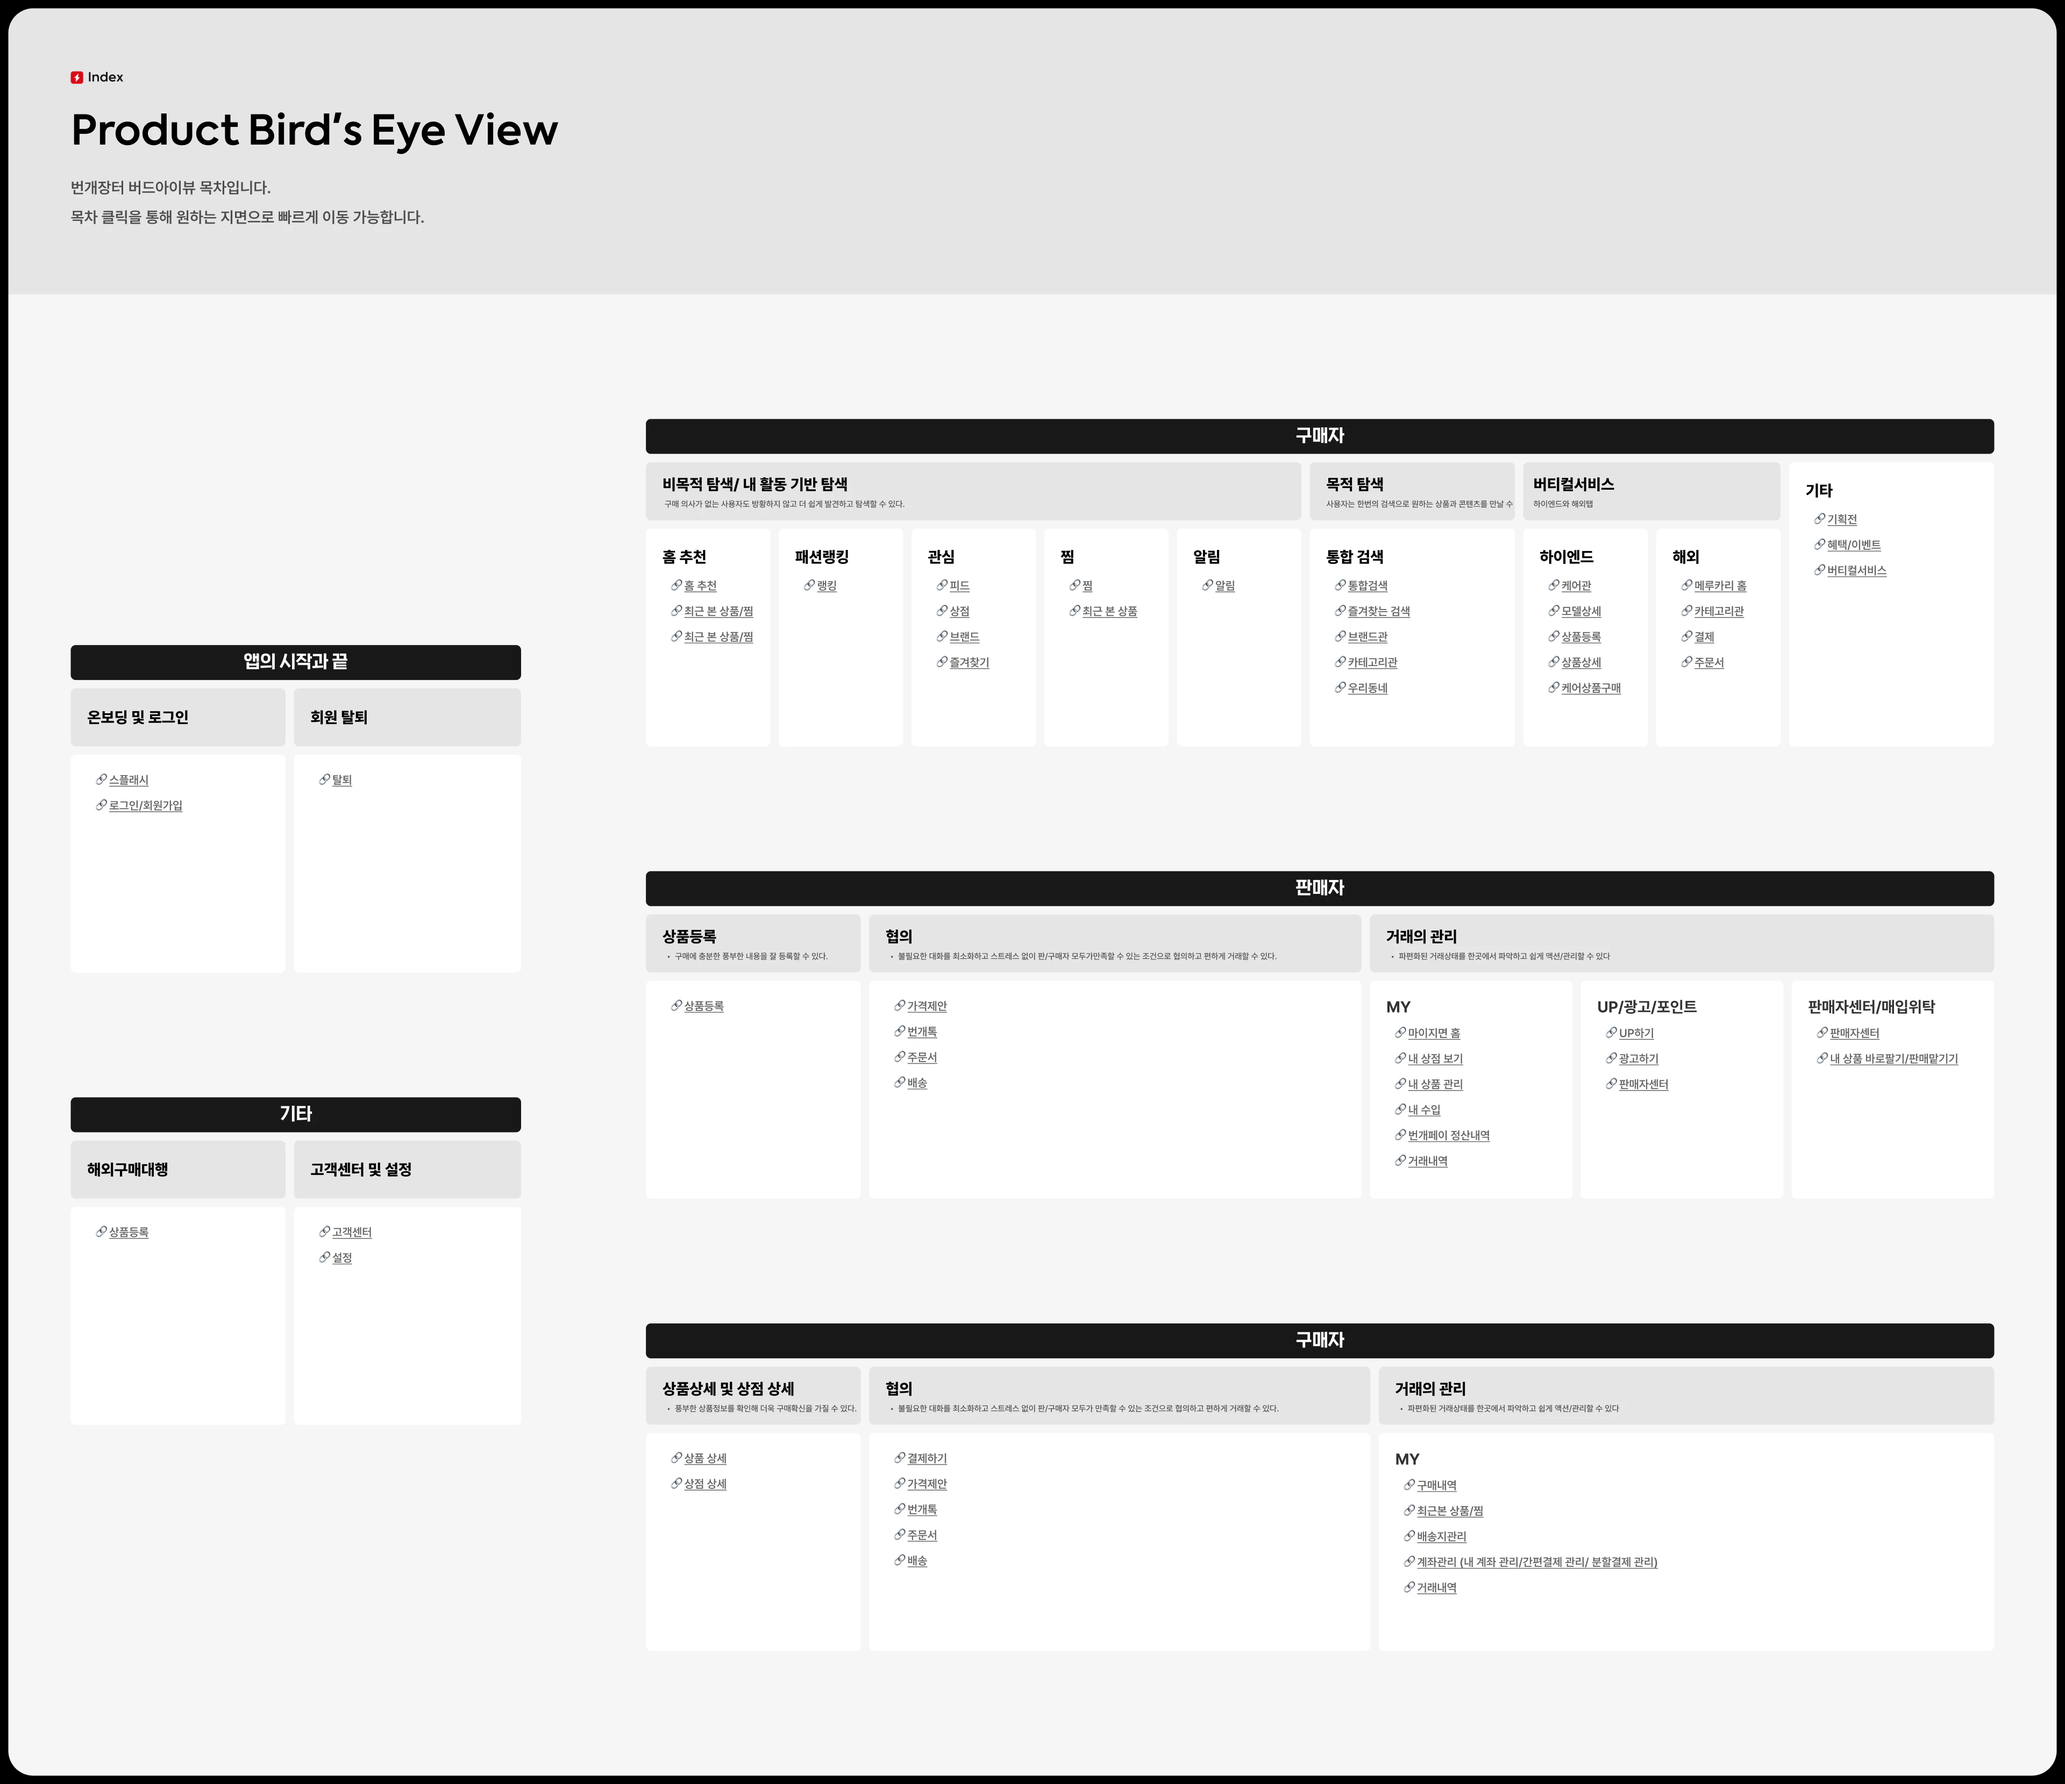
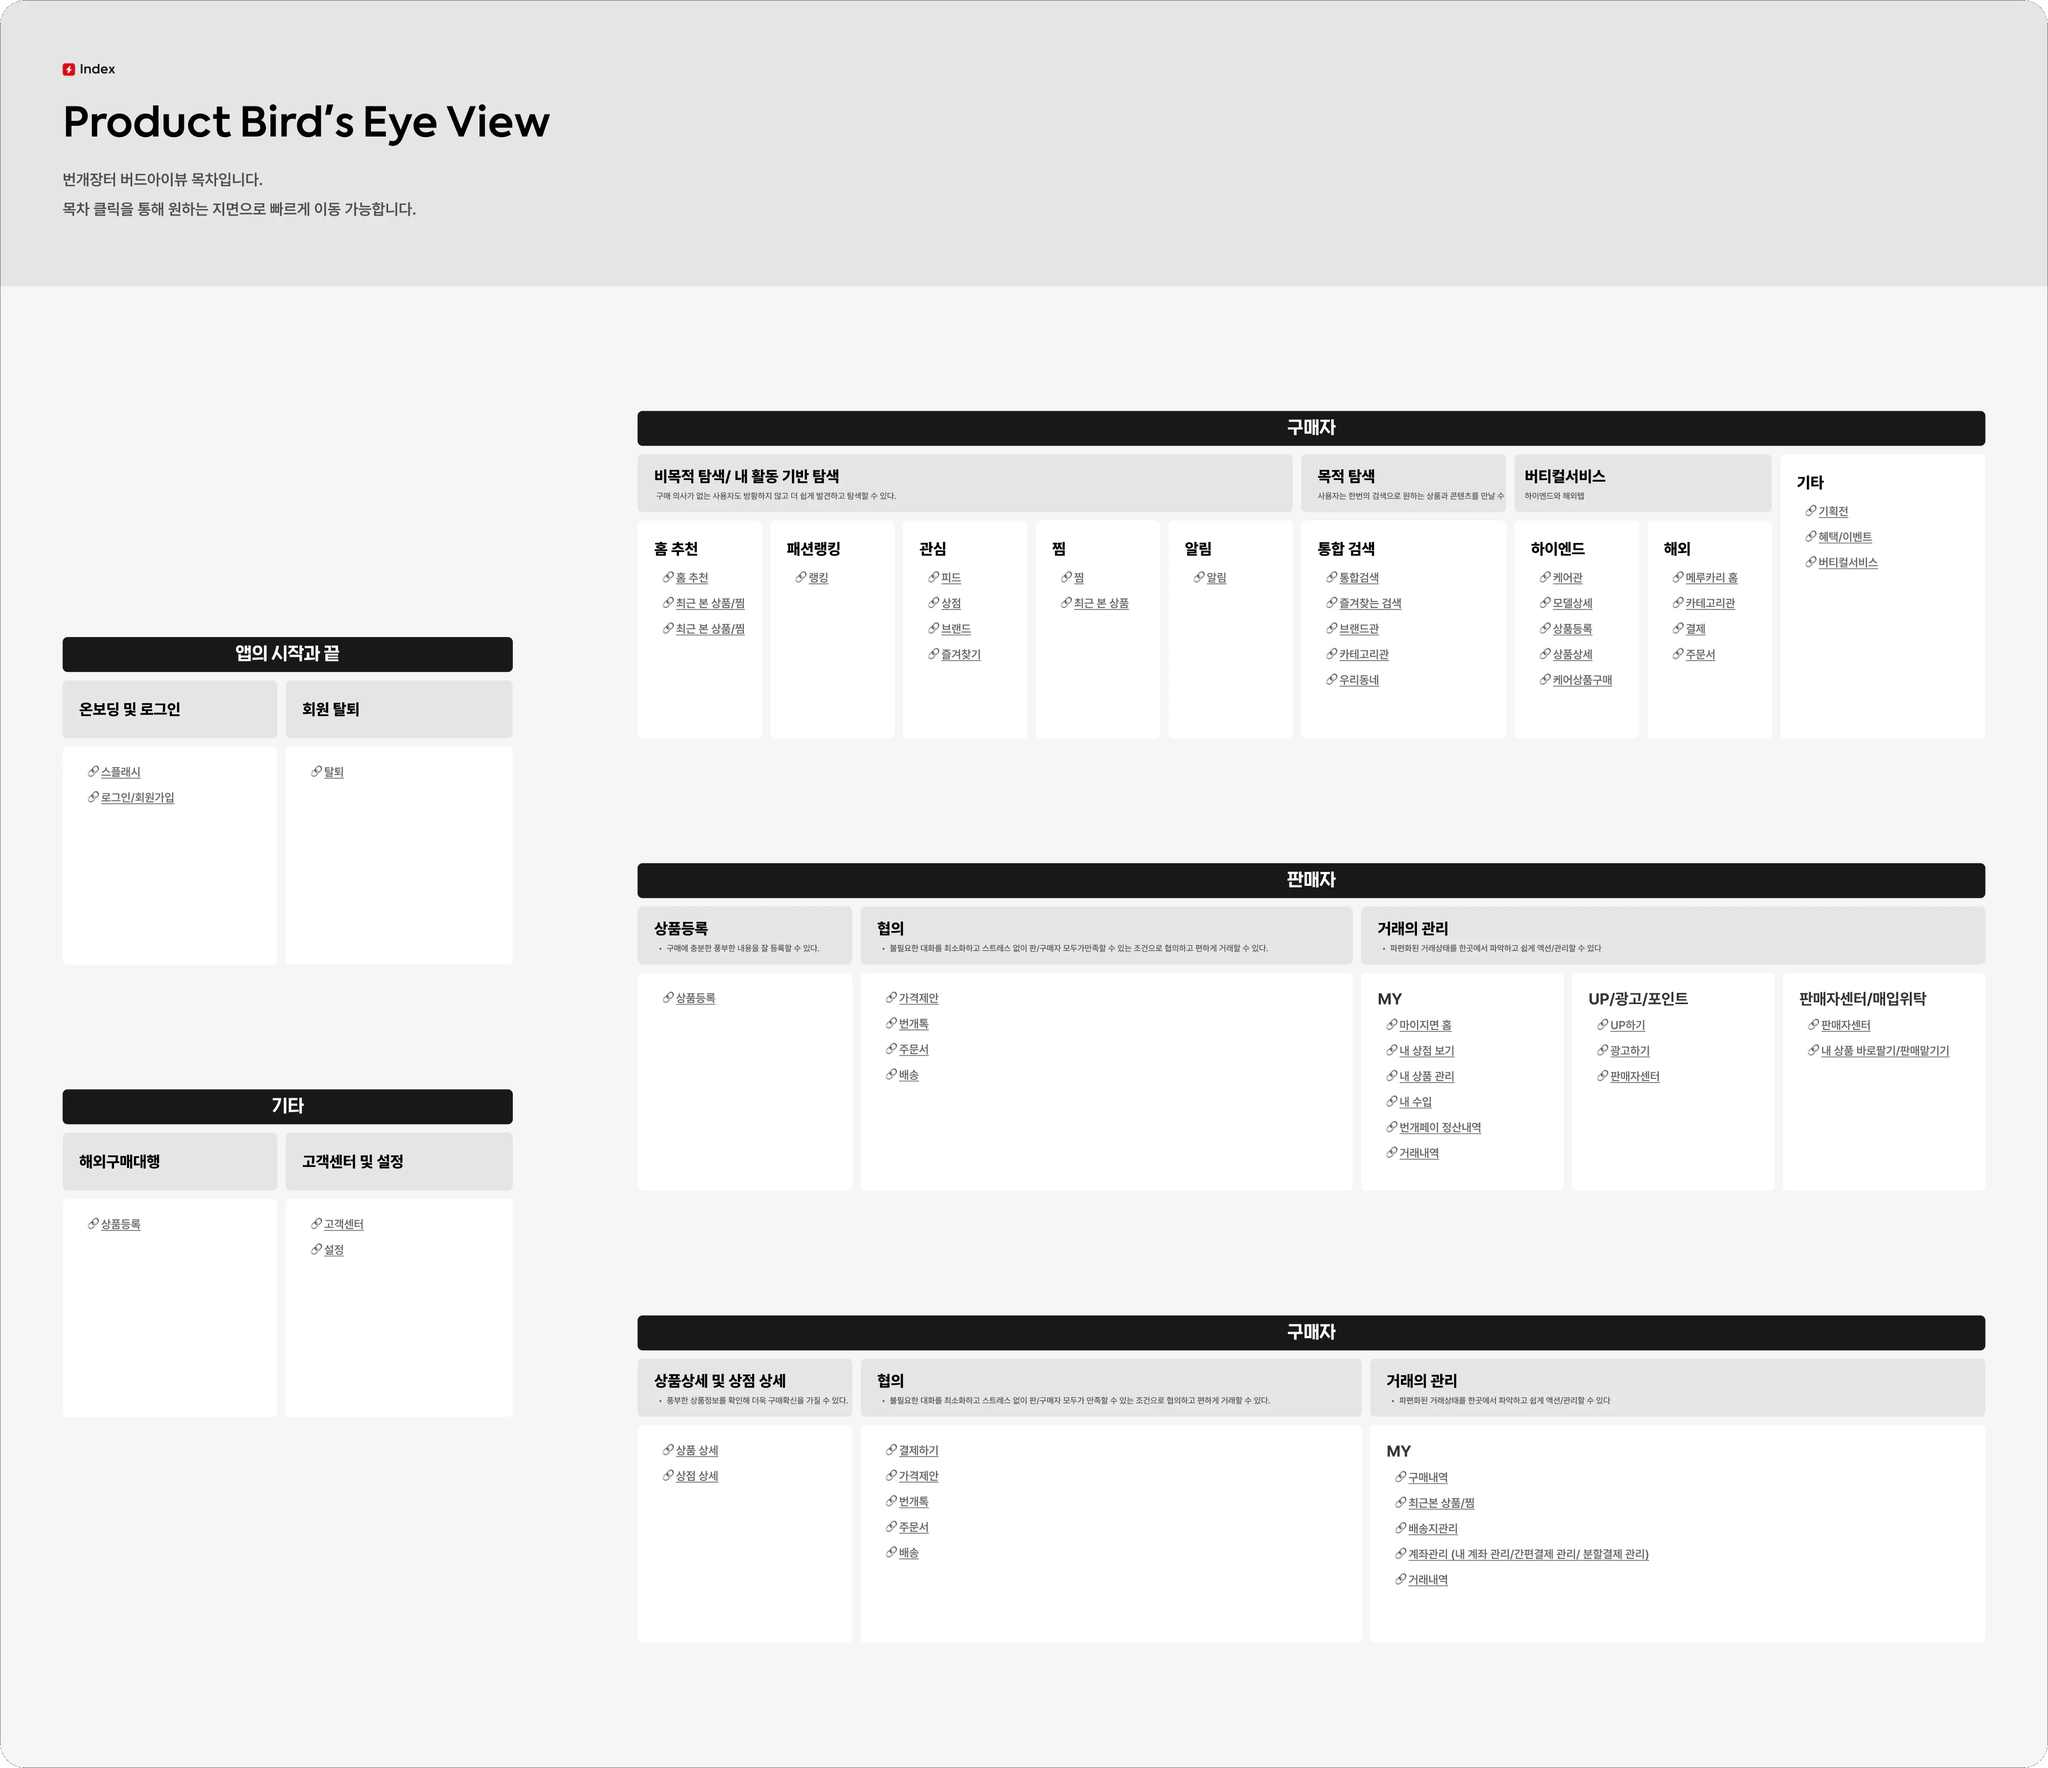
portfolio: GHA 프로토타입 동시 실행 최대 2개(화면에 가까운 순)·표지 영상도 화면 밖에선 정지, BEV 인덱스 검은 테두리 제거

diff --git a/portfolio/index.html b/portfolio/index.html
@@ -582,7 +582,7 @@
   // videos: play only when scrolling has stopped with the video in view; pause when it leaves
   const visible=new Set(); let scrollTimer=null, scrolling=false;
   const playVisible=()=>{ visible.forEach(v=>{ if(!v.dataset.userPaused) v.play().catch(()=>{}); }); };
-  const vio=new IntersectionObserver(es=>{ for(const e of es){ const v=e.target; if(e.isIntersecting){ visible.add(v); if(!scrolling && !v.dataset.userPaused) v.play().catch(()=>{}); } else { visible.delete(v); if(!v.dataset.auto) v.pause(); } } }, {threshold:.5});
+  const vio=new IntersectionObserver(es=>{ for(const e of es){ const v=e.target; if(e.isIntersecting){ visible.add(v); if((v.dataset.auto || !scrolling) && !v.dataset.userPaused) v.play().catch(()=>{}); } else { visible.delete(v); v.pause(); } } }, {threshold:.5});
   document.addEventListener('scroll', ()=>{ scrolling=true; clearTimeout(scrollTimer); scrollTimer=setTimeout(()=>{ scrolling=false; playVisible(); }, 180); }, {passive:true, capture:true});
   const SND_ON='<svg viewBox="0 0 16 16" width="14" height="14" fill="none" stroke="currentColor" stroke-width="1.5" stroke-linejoin="round"><path d="M2 6h3l4-3v10l-4-3H2z"/><path d="M11 5.5a3.5 3.5 0 0 1 0 5" stroke-linecap="round"/><path d="M12.8 3.5a6 6 0 0 1 0 9" stroke-linecap="round"/></svg>', SND_OFF='<svg viewBox="0 0 16 16" width="14" height="14" fill="none" stroke="currentColor" stroke-width="1.5" stroke-linejoin="round"><path d="M2 6h3l4-3v10l-4-3H2z"/><path d="M11 6l3.5 3.5M14.5 6L11 9.5" stroke-linecap="round"/></svg>';
   function setupVideos(root){
@@ -807,9 +807,12 @@
     // one Figma boot at a time, in page order (8 at once would choke the CPU); only those within ~4 screens stay alive
     const near=new Set(); let busy=null;
     const next=()=>{ if(busy) return; const mid=innerHeight/2, dist=d=>{ const r=d.getBoundingClientRect(); return Math.abs(r.top+r.height/2-mid); };
-      const d=[...near].filter(d=>!d.querySelector('iframe')).sort((a,b)=>dist(a)-dist(b))[0];  // closest to the screen first, so jumping straight to a scenario loads that one
-      if(d){ busy=d; load(d); } };
-    const io=new IntersectionObserver(es=>{ es.forEach(e=>{ if(e.isIntersecting) near.add(e.target); else { near.delete(e.target); unload(e.target); } }); next(); },{root: innerWidth>900 ? document.getElementById('about') : null, rootMargin:'4000px 0px'});
+      const d=[...near].sort((a,b)=>dist(a)-dist(b)).slice(0,2).find(d=>!d.querySelector('iframe'));  // closest to the screen first, so jumping straight to a scenario loads that one
+      if(d){ busy=d; load(d); }
+      // at most 2 Figma runtimes alive (the two nearest the screen); every extra one costs CPU/GPU for the whole page
+      [...document.querySelectorAll('#project-panel .pstage .dev')].filter(x=>x.querySelector('iframe')&&x!==busy).sort((a,b)=>dist(a)-dist(b)).slice(2).forEach(unload); };
+    let st=0; (innerWidth>900?document.getElementById('about'):window).addEventListener('scroll',()=>{ clearTimeout(st); st=setTimeout(next,250); },{passive:true});
+    const io=new IntersectionObserver(es=>{ es.forEach(e=>{ if(e.isIntersecting) near.add(e.target); else { near.delete(e.target); unload(e.target); } }); next(); },{root: innerWidth>900 ? document.getElementById('about') : null, rootMargin:'2600px 0px'});
     new MutationObserver(()=>document.querySelectorAll('#project-panel .pstage .dev:not([data-obs])').forEach(d=>{ d.dataset.obs=1; io.observe(d); })).observe(document.getElementById('project-panel'),{childList:true});
     // "영상으로 보기": swaps the stage to the scenario's screen recording (Vimeo, with controls) and back
     new MutationObserver(()=>document.querySelectorAll('#project-panel .pstage[data-video]:not([data-vsw])').forEach(st=>{ st.dataset.vsw=1;

diff --git a/portfolio/projects.html b/portfolio/projects.html
@@ -299,7 +299,7 @@
 <div class="pcap"><p class="pt"><span class="muted">Bird&#39;s Eye View · 1인, 기여도 100%</span><br>서비스 전체 화면을 한 파일에</p><p class="pb">개발자와 PM이 화면 위치와 사용자 흐름을 디자이너에게 반복해서 묻고 있었습니다. 서비스 전체 화면을 모아 둔 Bird&#39;s Eye View가 6개월 넘게 갱신되지 않아 실제 서비스와 맞지 않았기 때문입니다. 홈, 검색, 등록 같은 핵심 플로우로 1.0을 먼저 만들고, 라이브 중인 화면 전체를 기능별로 연결해 2.0으로 넓혔습니다.</p></div>
 <img width="1920" height="1080" decoding="async" loading="lazy" src="img/bunjang/bev_overview.webp?v=2" alt="">
 <div class="pcap"><p class="pt"><span class="muted">Overview</span><br>한눈에 보는 서비스 전체 화면</p><p class="pb">인덱스를 시작으로 상품등록, 탐색, 상품상세, 결제, 거래, 해외구매대행, 버티컬 서비스, 고객센터까지 라이브 화면을 기능별 섹션으로 묶어 한 파일에 정리했습니다.</p></div>
-<img width="3840" height="3319" decoding="async" loading="lazy" src="img/bunjang/bev_index_full.webp?v=1" alt="">
+<img width="3810" height="3289" decoding="async" loading="lazy" src="img/bunjang/bev_index_full.webp?v=2" alt="">
 <div class="pcap"><p class="pt"><span class="muted">Index</span><br>기능별로 찾아가는 목차</p><p class="pb">검색과 탐색, 번개케어, 해외, 상품등록, 상품상세, 상점상세, 거래, 판매관리처럼 기능 단위로 목차를 나누고, 항목을 누르면 해당 화면 묶음으로 바로 이동하도록 링크를 걸었습니다.</p></div>
 <img width="1920" height="1080" decoding="async" loading="lazy" src="img/bunjang/bev_pdp_log.webp?v=hr1" alt="">
 <img width="1920" height="1080" decoding="async" loading="lazy" src="img/bunjang/bev_pdp_cta.webp?v=hr1" alt="">
